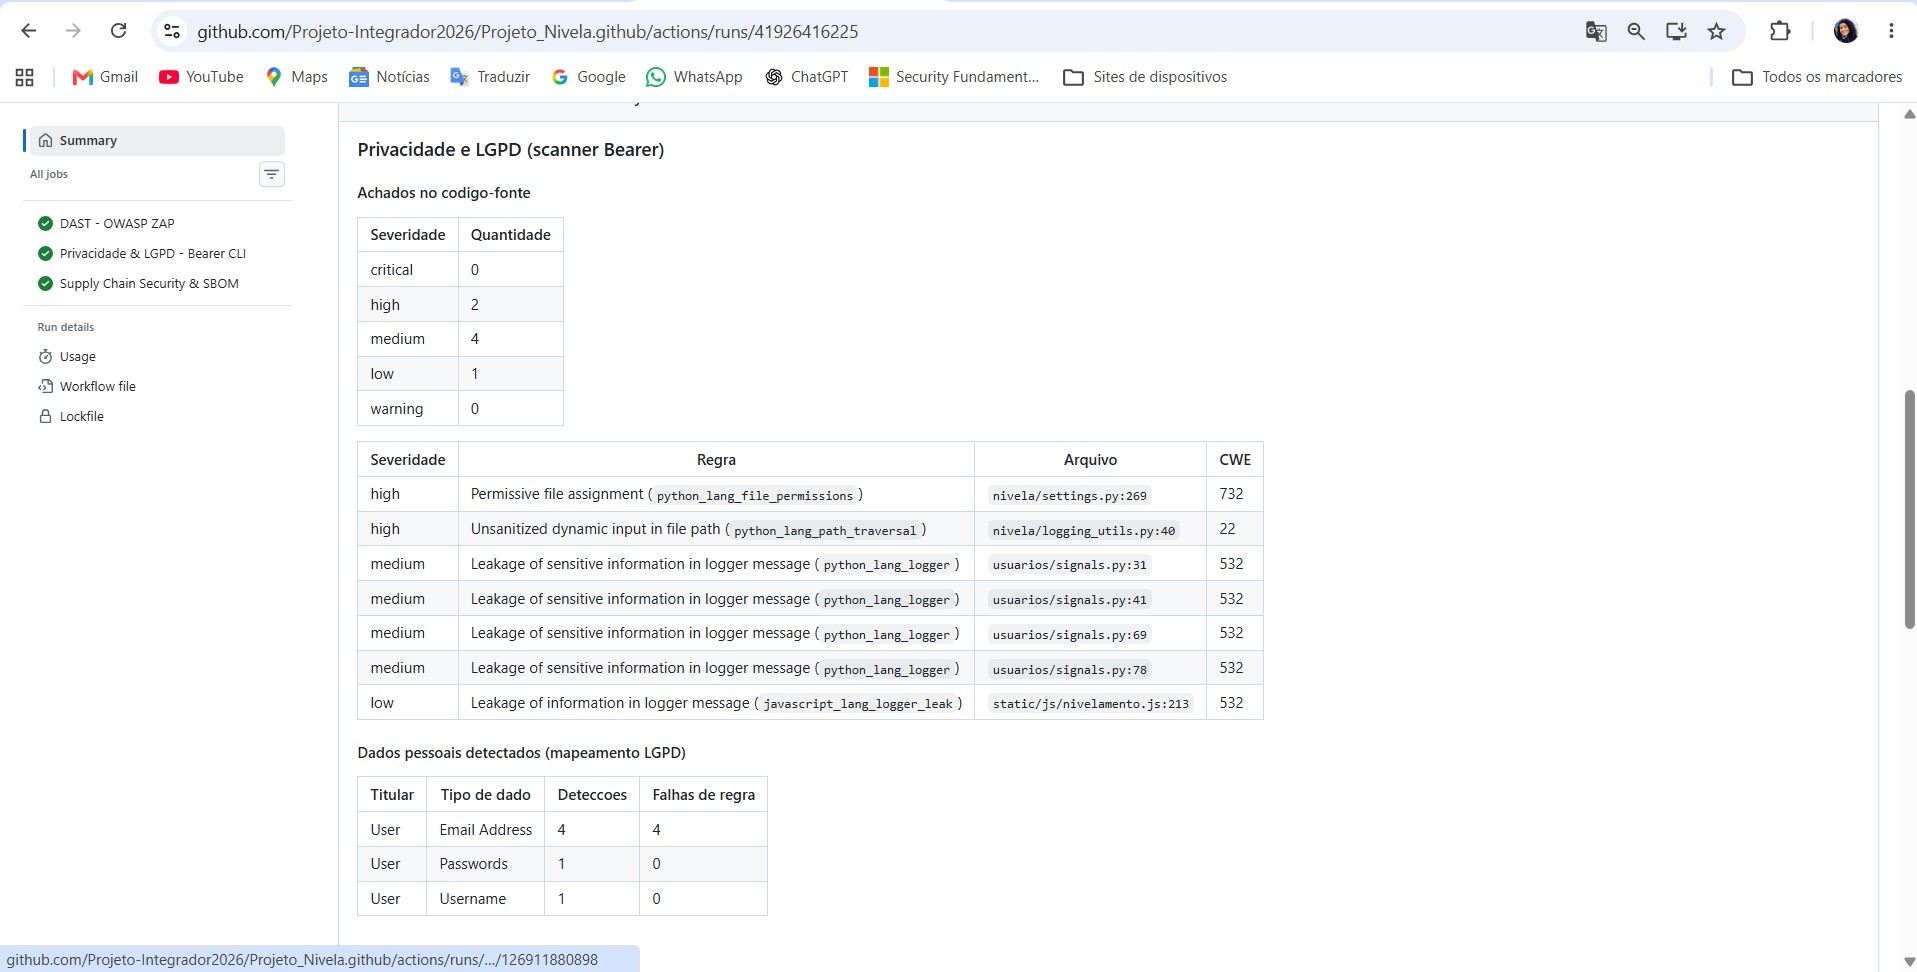
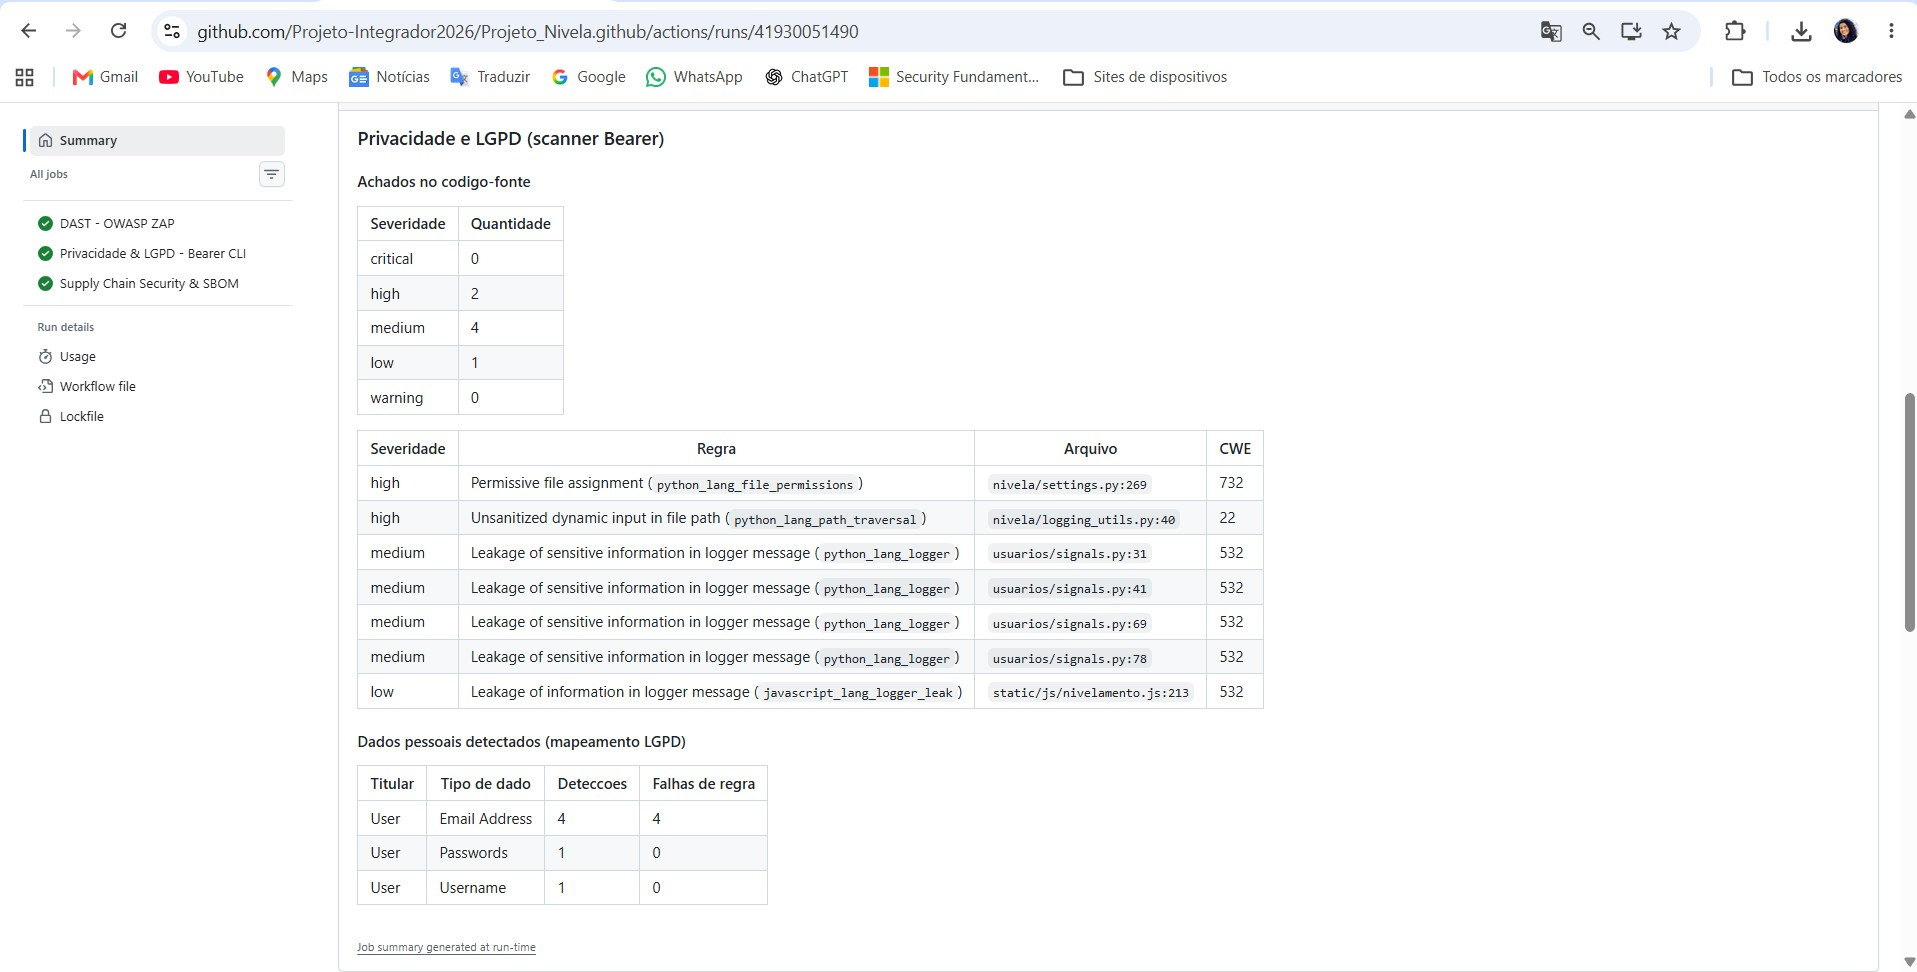
docs: adiciona triagem do Bearer e inclui log de autenticacao no inventario LGPD

diff --git a/docs/Documentacao-Tecnico-Cientifica/lgpd-inventario-dados.md b/docs/Documentacao-Tecnico-Cientifica/lgpd-inventario-dados.md
@@ -13,6 +13,7 @@
 | Sessão e cookies técnicos | Gerados no login | `django_session`; cookies `sessionid` e `csrftoken` | Manter o titular autenticado e proteger os formulários | Execução de contrato (art. 7º, V) |
 | Tentativas de login | Geradas pelo django-axes | Tabelas do django-axes (usuário informado, IP, navegador, data) | Proteção contra força bruta | Legítimo interesse (art. 7º, IX) |
 | Log de recuperação de senha | Gerado pelo sistema | `logs/recuperacao_senha.log` (e-mail informado e data) | Auditoria do fluxo de recuperação | Legítimo interesse (art. 7º, IX) |
+| Log de autenticação | Gerado pelo sistema a cada login, logout e verificação 2FA | `logs/autenticacao.log` (e-mail mascarado, IP e data) | Auditoria de acessos e detecção de acesso indevido | Legítimo interesse (art. 7º, IX) |
 | Registros de acesso da hospedagem | Gerados por Render e Cloudflare | Infraestrutura de terceiros (IP, URL, navegador) | Operação e segurança da hospedagem | Legítimo interesse (art. 7º, IX) |
 | Progresso nas lições | Gerado pelo sistema conforme o titular avança | `gamificacao_progressolicao` (usuário, lição, concluída, data) | Controlar o avanço na trilha de aprendizado | Execução de contrato (art. 7º, V) |
 | Tentativas de exercícios | Geradas a cada resposta do titular | `gamificacao_tentativaexercicio` (usuário, exercício, correta, data) | Avaliar desempenho e liberar próximos módulos | Execução de contrato (art. 7º, V) |
@@ -50,15 +51,10 @@ Evidências em `docs/Evidencias/lgpd/`:
 | Sessão | Cookie HttpOnly e Secure | Até a sessão expirar |
 | Tentativas de login | Acesso restrito ao banco | A definir pelo grupo |
 | Log de recuperação de senha | Arquivo fora do repositório | Enquanto o arquivo existir |
+| Log de autenticação | Arquivo fora do repositório; e-mail mascarado; pasta com acesso restrito ao dono; hash encadeado contra adulteração | Enquanto o arquivo existir (disco efêmero no plano gratuito do Render) |
 | Registros da hospedagem | Gerenciados pelos provedores | Conforme a política de cada provedor |
 | Progresso, tentativas, perfil de gamificação e nivelamento | Acesso restrito ao banco | Enquanto a conta existir |
 | Consentimentos e solicitações | Acesso restrito ao banco | Consentimentos: apagados com a conta. Solicitações: mantidas sem dados pessoais |
-
----
-
-> Última atualização: _(20/09/2026)_
-> Responsável pela documentação: _(Beatriz Miguel)_
-
 
 ## 4. Registro explícito de consentimento (4.4)
 
@@ -74,7 +70,6 @@ Evidências em `docs/Evidencias/lgpd/`:
 - `print-consentimento-checkbox-obrigatorio.jpg`: tentativa de cadastro sem marcar o checkbox, recusada com "Este campo é obrigatório."
 - `print-consentimento-registrado-admin.jpg`: registro de consentimento criado no Admin após o cadastro com o checkbox marcado.
 
-
 ## 5. Consentimento associado à finalidade (4.5)
 
 O modelo `RegistroConsentimento` (`lgpd/models.py`) obriga cada registro a declarar
@@ -88,7 +83,6 @@ pertencer a uma dessas finalidades. O registro do item 4.4 é um exemplo prátic
 disso — a finalidade "Termos de uso e política de privacidade" fica associada
 a esse consentimento específico, visível na mesma evidência
 `print-consentimento-registrado-admin.jpg`.
-
 
 ## 6. Possibilidade de revogação do consentimento (4.6)
 
@@ -110,7 +104,6 @@ Evidências em `docs/Evidencias/lgpd/`:
 
 - `print-consentimentos-lista-antes-revogar.jpg`: tela "Meus consentimentos" com o consentimento ativo e o botão "Revogar" disponível.
 - `print-consentimentos-revogado.jpg`: mesma tela após a revogação, com status "Revogado" e data/hora registrada.
-
 
 ## 7. Registro de data e versão do consentimento (4.7)
 
@@ -135,7 +128,6 @@ Não há evidência nova para este item: as mesmas evidências dos itens 4.4 e 4
 `print-consentimentos-lista-antes-revogar.jpg` e
 `print-consentimentos-revogado.jpg`) já mostram a versão e as datas gravadas.
 
-
 ## 8. Funcionalidade de consulta aos dados do titular (4.8)
 
 - O titular logado acessa **Meus dados** (menu superior), que agora leva à tela
@@ -154,7 +146,6 @@ Evidência em `docs/Evidencias/lgpd/`:
 
 - `print-meus-dados-consulta.jpg`: tela "Meus dados" exibindo os dados da conta e de gamificação do titular logado.
 
-
 ## 9. Funcionalidade de exportação dos dados (4.9)
 
 - Na tela **Meus dados**, o titular logado tem o botão **"Baixar meus dados
@@ -172,7 +163,6 @@ Evidência em `docs/Evidencias/lgpd/`:
 Evidência em `docs/Evidencias/lgpd/`:
 
 - `print-exportacao-json.jpg`: botão de exportação na tela "Meus dados" e o conteúdo do arquivo `meus-dados-nivela.json` baixado, incluindo o histórico de consentimento do titular.
-
 
 ## 10. Funcionalidade de exclusão dos dados pessoais (4.10)
 
@@ -202,7 +192,6 @@ Evidências em `docs/Evidencias/lgpd/`:
 - `print-exclusao-senha-incorreta.jpg`: tentativa de exclusão com senha errada, recusada.
 - `print-exclusao-sucesso.jpg`: mensagem de sucesso na tela de login, com o protocolo de atendimento.
 - `print-exclusao-solicitacao-anonima.jpg`: registro em `SolicitacaoTitular` no Admin, com identificador anônimo preservado e usuário nulo.
-
 
 ## 11. Fluxo de atendimento aos direitos do titular (4.11)
 
@@ -242,5 +231,7 @@ Requisito 4 atual.
 Não há evidência nova neste item: as evidências dos itens 4.6, 4.8, 4.9 e
 4.10 já demonstram, juntas, o fluxo completo de ponta a ponta.
 
-> Última atualização: _(23/09/2026)_
-> Por _(Beatriz Mguel)_
+---
+
+> Última atualização: _(04/11/2026)_
+> Responsável pela documentação: _(Beatriz Miguel)_

diff --git a/docs/Documentacao-Tecnico-Cientifica/privacidade-bearer-lgpd.md b/docs/Documentacao-Tecnico-Cientifica/privacidade-bearer-lgpd.md
@@ -26,7 +26,7 @@ Um passo adicional verifica que os dois arquivos foram realmente gerados. Se fal
 
 Não há achados críticos, portanto o quality gate foi aprovado. Os achados de severidade alta, média e baixa não bloqueiam o build; por isso foram analisados manualmente (seção 4).
 
-**Dados pessoais mapeados no código:** e-mail (4 detecções), senha (1) e nome de usuário (1).
+**Dados pessoais mapeados no código:** e-mail (4 detecções), senha (1) e nome de usuário (1). O relatório de privacidade não apontou falhas de severidade crítica ou alta; as 4 falhas de severidade média referem-se ao e-mail em mensagens de log.
 
 ![Resumo do Bearer na aba Summary do GitHub Actions](../Evidencias/devsecops/bearer-lgpd/01-resumo-bearer.jpg)
 *Figura 1: Resumo do Bearer CLI na aba Summary da execução do workflow.*
@@ -35,14 +35,15 @@ Não há achados críticos, portanto o quality gate foi aprovado. Os achados de 
 
 | Severidade | Regra | Arquivo | Avaliação |
 |---|---|---|---|
-| Alta | `python_lang_file_permissions` | `nivela/settings.py:269` | **Falso positivo.** A linha aplica `os.chmod(logs, 0o700)`, que restringe a pasta de logs ao dono (item 5.3). É uma proteção, não uma permissão excessiva. |
-| Alta | `python_lang_path_traversal` | `nivela/logging_utils.py:40` | **Falso positivo.** O caminho aberto vem da configuração do handler em `settings.py`, não de entrada do usuário. |
-| Média (4) | `python_lang_logger` | `usuarios/signals.py:31, 41, 69, 78` | **Mitigado.** O e-mail passa por `mascarar_email()` antes de ir para o log (ex.: `b***@gmail.com`); o scanner não reconhece essa função como sanitização. O IP é gravado sem máscara, por necessidade de auditoria (itens 5.1 e 5.2). |
+| Alta | `python_lang_file_permissions` | `nivela/settings.py:269` | **Falso positivo.** A linha aplica `os.chmod(logs, 0o700)`, que restringe a pasta de logs ao dono. É uma proteção, não uma permissão excessiva. |
+| Alta | `python_lang_path_traversal` | `nivela/logging_utils.py:40` | **Falso positivo.** O caminho aberto vem da configuração do handler de log em `settings.py`, não de entrada do usuário. |
+| Média (4) | `python_lang_logger` | `usuarios/signals.py:31, 41, 69, 78` | **Mitigado.** O e-mail passa por `mascarar_email()` antes de ir para o log (ex.: `b***@gmail.com`); o scanner não reconhece essa função como sanitização. O IP é gravado sem máscara, por necessidade de auditoria (ver abaixo). |
 | Baixa | `javascript_lang_logger_leak` | `static/js/nivelamento.js:213` | **Risco baixo.** `console.error` exibe apenas o erro de uma requisição no console do navegador, sem dado pessoal. |
 
-**Sobre o IP nos logs:** o endereço IP é dado pessoal. Ele é registrado para detectar tentativas de acesso indevido, com base legal de legítimo interesse (art. 7º, IX da LGPD), conforme o inventário de dados (`lgpd-inventario-dados.md`). A estrutura dos logs está descrita em `auditoria-logs.md`.
+**Sobre o IP nos logs:** o endereço IP é registrado nos eventos de login, logout e validação de 2FA. Ele é dado pessoal, mas não é dado sensível. A finalidade é detectar tentativas de acesso indevido, com base legal de **legítimo interesse** (art. 7º, IX da LGPD), respeitando os princípios de finalidade, necessidade e segurança (art. 6º) e as medidas de segurança do art. 46. Como mitigação, o e-mail é sempre mascarado e a pasta de logs tem acesso restrito ao dono (`0o700`). O tratamento consta no inventário de dados (`lgpd-inventario-dados.md`) e a estrutura dos logs está descrita em `auditoria-logs.md`.
 
 ## 5. Limitações
 - O quality gate bloqueia somente achados **críticos**. Achados de severidade alta exigem revisão manual, como feito na seção 4.
 - O Bearer faz análise estática e não reconhece funções próprias de mascaramento, o que explica os 4 achados médios.
+- Os falsos positivos foram classificados por análise manual e continuam listados no relatório do Bearer.
 - A ferramenta não substitui a revisão jurídica da conformidade com a LGPD.
